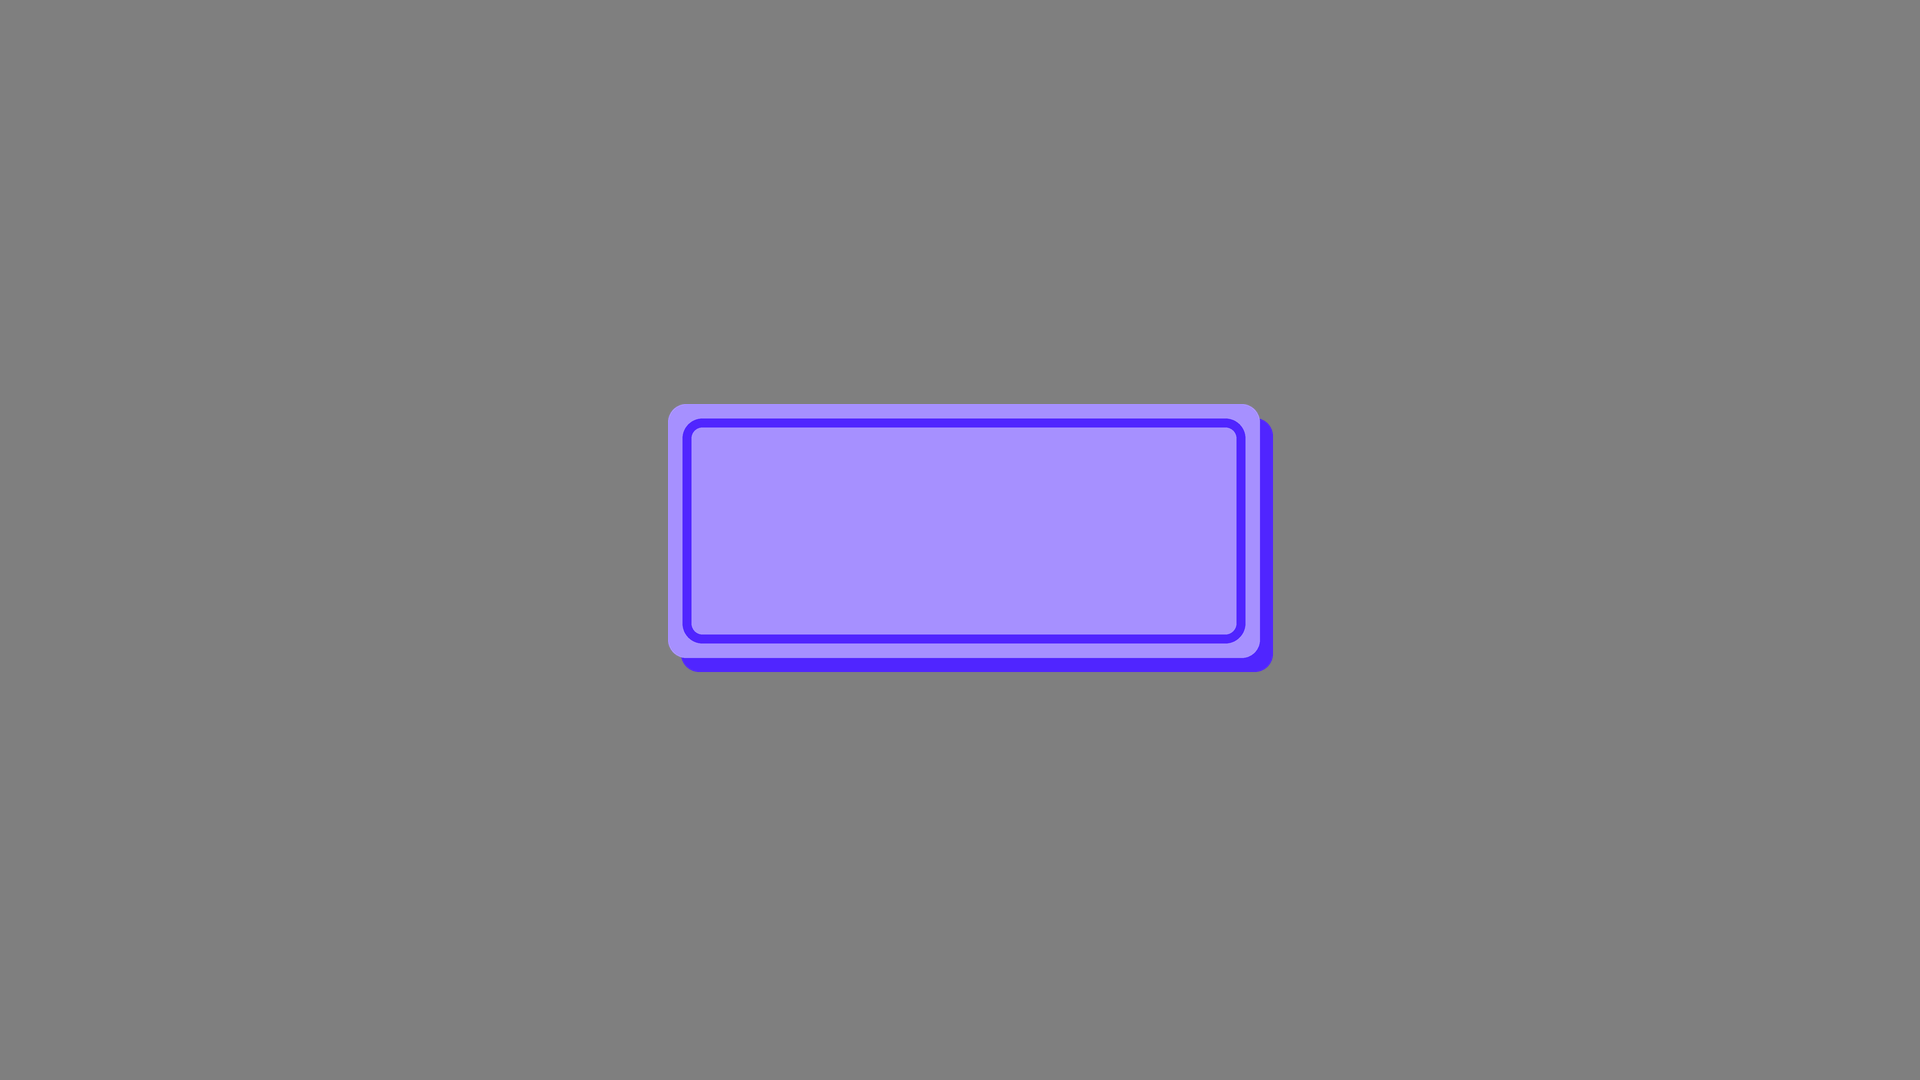
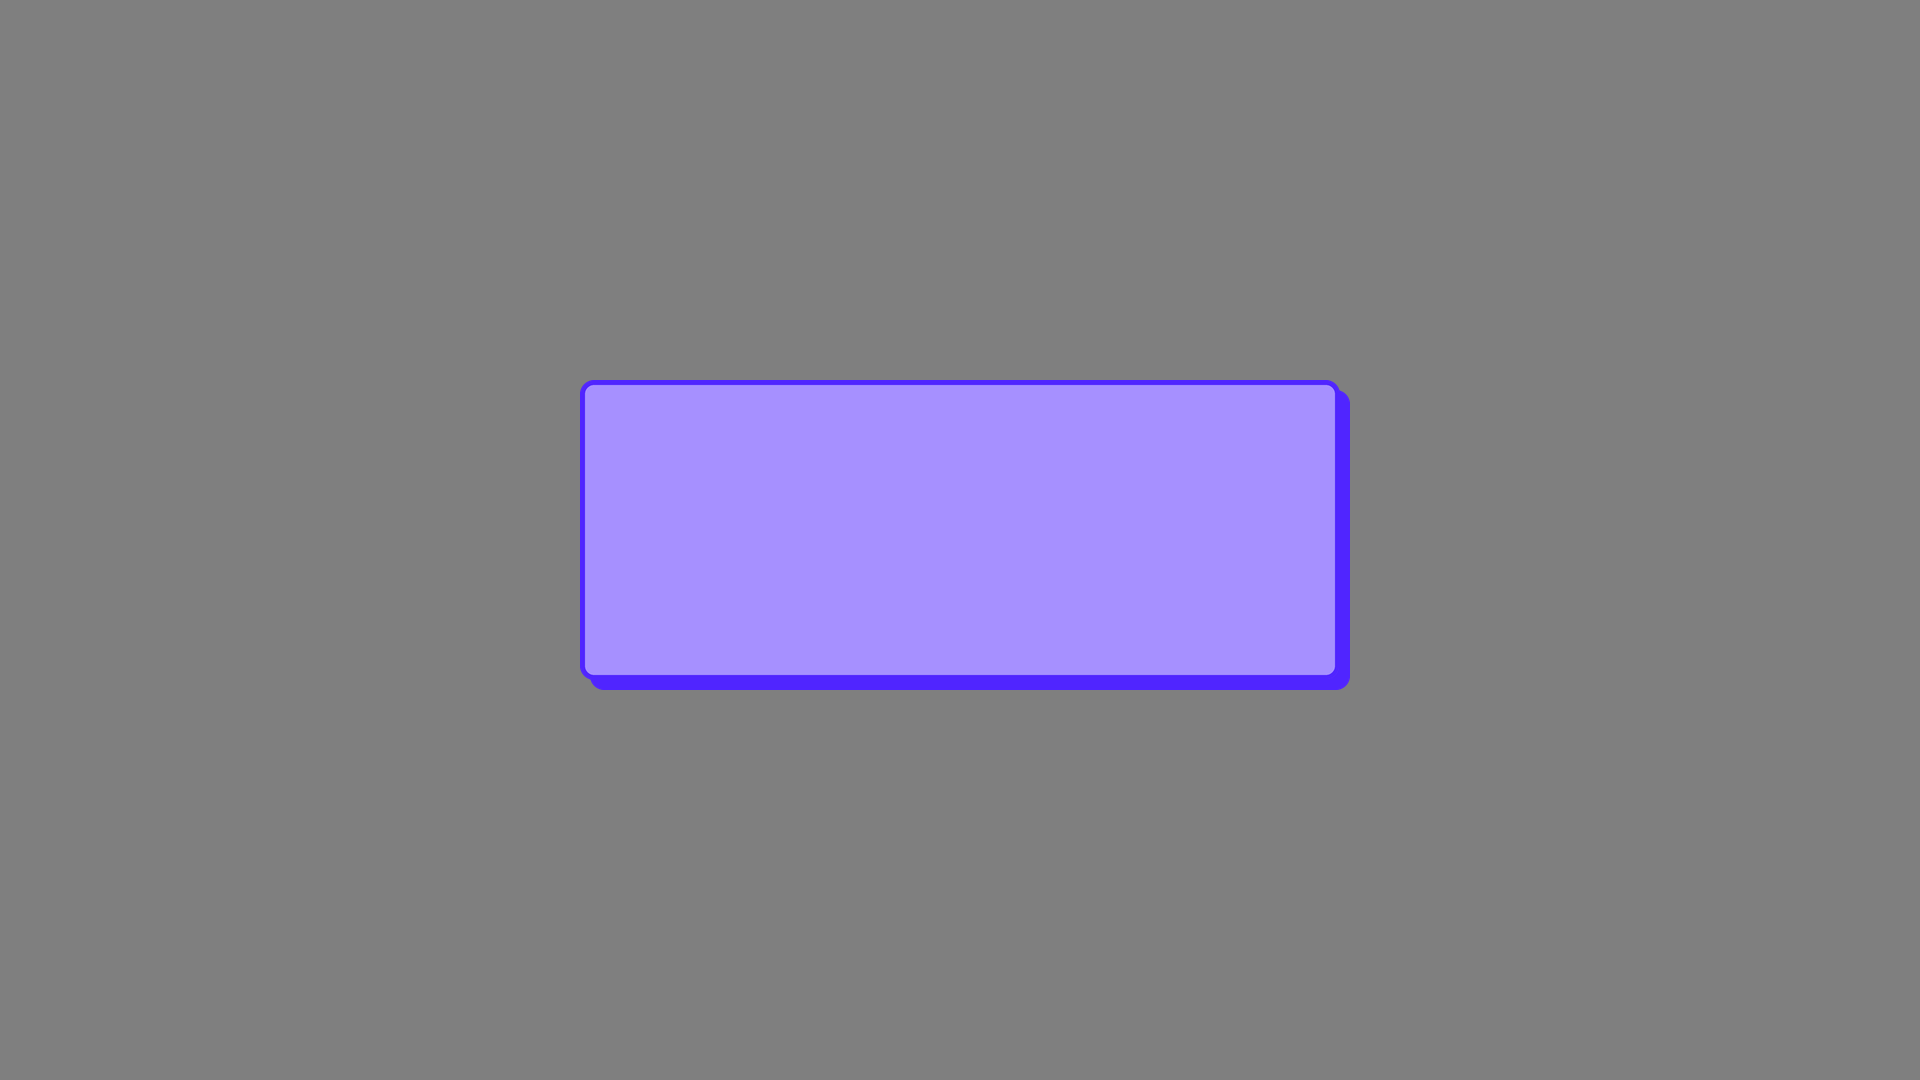
Yes/No dialogs: redesign natively at 1920x1080
The previous frames scaled the 800x600 box's geometry by 1.8x, with 1.8x-upscaled Yes/No
images and the message drawn with a blurred engine edge, and looked soft. The new design
keeps the old lavender and purple: a square panel with 14px corners, a 5px border and a hard
offset shadow (760x300, or 1080x400 for long messages), and white buttons that fill purple on
hover. The buttons are shape-only images: drawYesNoLabel draws "Yes"/"No" into each button
state, and the message is bold white with a crisp navy outline, all in the game's face list
through krkr_richtext when the message window uses it.

Claude-Session: https://claude.ai/code/session_015KFnRWRbod9mVdFAoUa8Kt

Changed region(s): [[0.2812, 0.3361, 0.7188, 0.6417]]

diff --git a/CLAUDE.md b/CLAUDE.md
@@ -48,7 +48,7 @@ In the sample, the game-side hooks all live in `data/main/`: `Config.tjs`, `Over
   - World (`envinit.tjs`): `yoffset` and vertical motion are x1.8. Horizontal positions and moves are x2.4, so `posleft`/`outleft` etc. sit at the same fractions of the wider screen.
   - Hardcoded scenario offsets (`layer.ks` character/rotation origin, `char.ks` walk-off, `envlayer.ks` star paths) were scaled the same way.
   - History log (`MyHistoryLayer.tjs`): full-screen `log_base`, controls placed for 1920 wide, text 36/42. Its margins come from the `historylayer-additionals` in `data/main/Config.tjs`, which override the class defaults: `marginR = 176` keeps lines clear of the page buttons at x 1766.
-  - Yes/No prompts (`MyYesNoDialog.tjs`): every `askYesNo` uses `dialog_base` (a 592x254 box, the 800x600 art redrawn at 1.8x) or, for a message longer than two lines, `dialog_wide_base`. Neither has text in it: the message (shortened through `yesnoMap`, or as given) is word-wrapped and drawn with `kag.chDefaultFace`, so no prompt reaches the stock `YesNoDialogWindow`. `yesnoFrames` holds each frame's text area; the buttons (`dialog_yes/no_*`, 1.8x) sit at the image centre + (-135, 9) and (20, 9).
+  - Yes/No prompts (`MyYesNoDialog.tjs`), designed at 1920x1080 (the old box's lavender and purple, square with 14px corners and a hard offset shadow): every `askYesNo` uses `dialog_base` (760x300 panel) or, for a message longer than two lines, `dialog_wide_base` (1080x400). The images hold no text: the message (shortened through `yesnoMap`, or as given) is word-wrapped and drawn bold in white with a navy outline, and the `dialog_button_normal/over` shapes get their "Yes"/"No" labels drawn into each button state (`drawYesNoLabel`), all with `kag.chDefaultFace` through krkr_richtext when the message window uses it. So no prompt reaches the stock `YesNoDialogWindow`. `yesnoFrames` holds each frame's text area and button row.
   - The CG and Replay thumbnails come from `data/thum/thum_<name>.png` (208x117) when present; otherwise `setCGImage` shrinks the CG with `shrinkCopy`.
   Still untested: `effect.ks` (its fire effect needs the `gfxEffect` plugin, which isn't built). The title buttons (`start`/`continue`/... `_normal`) are the original 298x32 art, left as they are. Everything is being moved to 1920x1080, so shared assets get converted even if that breaks things still at 800x600.
 - **Alpha movies in layers** (`[image movie=... alpha=1|2]`) go through `GFX_Movie.tjs`, which copies each frame with `assignImages`. That doesn't carry the layer type, so `start()` sets the target layers to `ltAlpha` before the first frame arrives (the `[image]` tag shows the layer immediately, and an opaque empty layer flashed white), and `onFrameUpdate` keeps alpha movies at `ltAlpha`. Otherwise the clear parts render solid white, across the whole screen for KAGEX's affine layers.

diff --git a/CHANGELOG.md b/CHANGELOG.md
@@ -12,7 +12,7 @@
 - The Replay screen unlocks a scene once it has been played, instead of only in debug mode.
 - The Config screen's Title button failed to load a missing dialog image.
 - Music Mode's first track didn't play on Linux (file name case), and two tracks that don't exist were listed.
-- Yes/No prompts are drawn in the game's font at 1080p size for every message, including the save-data and scenario-changed prompts that used to fall back to a separate window with no usable font. The title prompt is in English.
+- Yes/No prompts are redesigned at 1920x1080 and drawn in the game's font for every message, including the save-data and scenario-changed prompts that used to fall back to a separate window with no usable font. The title prompt is in English.
 - The message history's text ran under its page buttons (its right margin was overridden in `Config.tjs`), and it didn't scroll with trackpads or high-resolution wheels.
 - The save/load and CG/Replay screens freed their thumbnail layers, and CG thumbnails are shrunk smoothly instead of with nearest-neighbour.
 - Remaining 800x600 settings: the default message window, `scPositionX`, the logo screen, the About window.
@@ -27,7 +27,7 @@
 
 ### Removed
 
-- The per-message dialog images (`dialog_*_base`), replaced by `dialog_base` and `dialog_wide_base` with the text drawn at run time, and nine unused 800x600 images.
+- The per-message dialog images (`dialog_*_base`) and the `dialog_yes/no_*` buttons, replaced by `dialog_base`, `dialog_wide_base` and `dialog_button_normal/over` with the text drawn at run time, and nine unused 800x600 images.
 - `template/update_auto_copy_vars.bat`.
 
 ## 0.0.3
